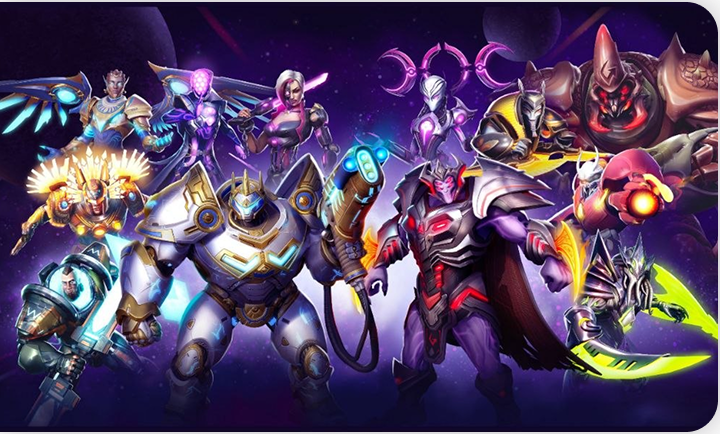
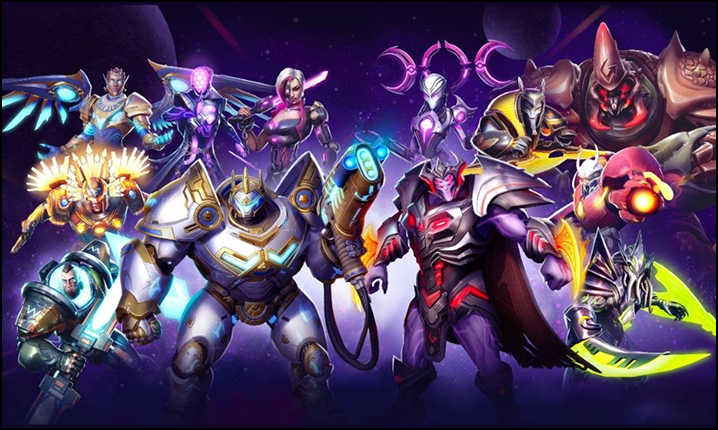
Add fix in About

diff --git a/src/css/about.css b/src/css/about.css
@@ -37,13 +37,17 @@
 }
 
 .about-img {
-  border-radius: 0 16px 16px 0;
+  border-radius: 16px;
   width: 100%;
-  max-width: 359px;
-  height: 215px;
+  max-width: 343px;
+  height: 205px;
+  box-shadow: 0 0 20px 0 rgba(10, 5, 20, 0.3);
 }
 .about-img-wrap {
   padding-bottom: 16px;
+}
+.about-content-text {
+  margin-bottom: 24px;
 }
 
 @media only screen and (min-width: 1200px) {
@@ -67,51 +71,11 @@
   }
   .about-img {
     width: 100%;
-    max-width: 708px;
+    max-width: 596px;
     height: 432px;
     flex-shrink: 0;
   }
   .about-content-text {
     max-width: 595px;
   }
-
-  /* .about-img {
-    width: 100%;
-    max-width: 708px;
-    height: 432px;
-  } */
-
-  /* .about-label {
-    font-size: 24px;
-    line-height: 1.1;
-  }
-  .about-title {
-    font-size: 48px;
-    max-width: 595px;
-    margin-bottom: 32px;
-  }
-  .about-text {
-    font-size: 32px;
-  }
-  .about-content {
-    max-width: 595px;
-  }
-  .about-img {
-    width: 100%;
-    max-width: 708px;
-    height: 432px;
-  } */
-  /* .about-wrapper {
-    display: flex;
-    flex-direction: row-reverse;
-    justify-content: flex-end;
-    gap: 25px;
-  } */
-  /* .container-about {
-    padding: 0;
-    margin-bottom: 0;
-    max-width: 595px;
-    width: 100%;
-    max-height: 432px;
-  } */
 }
